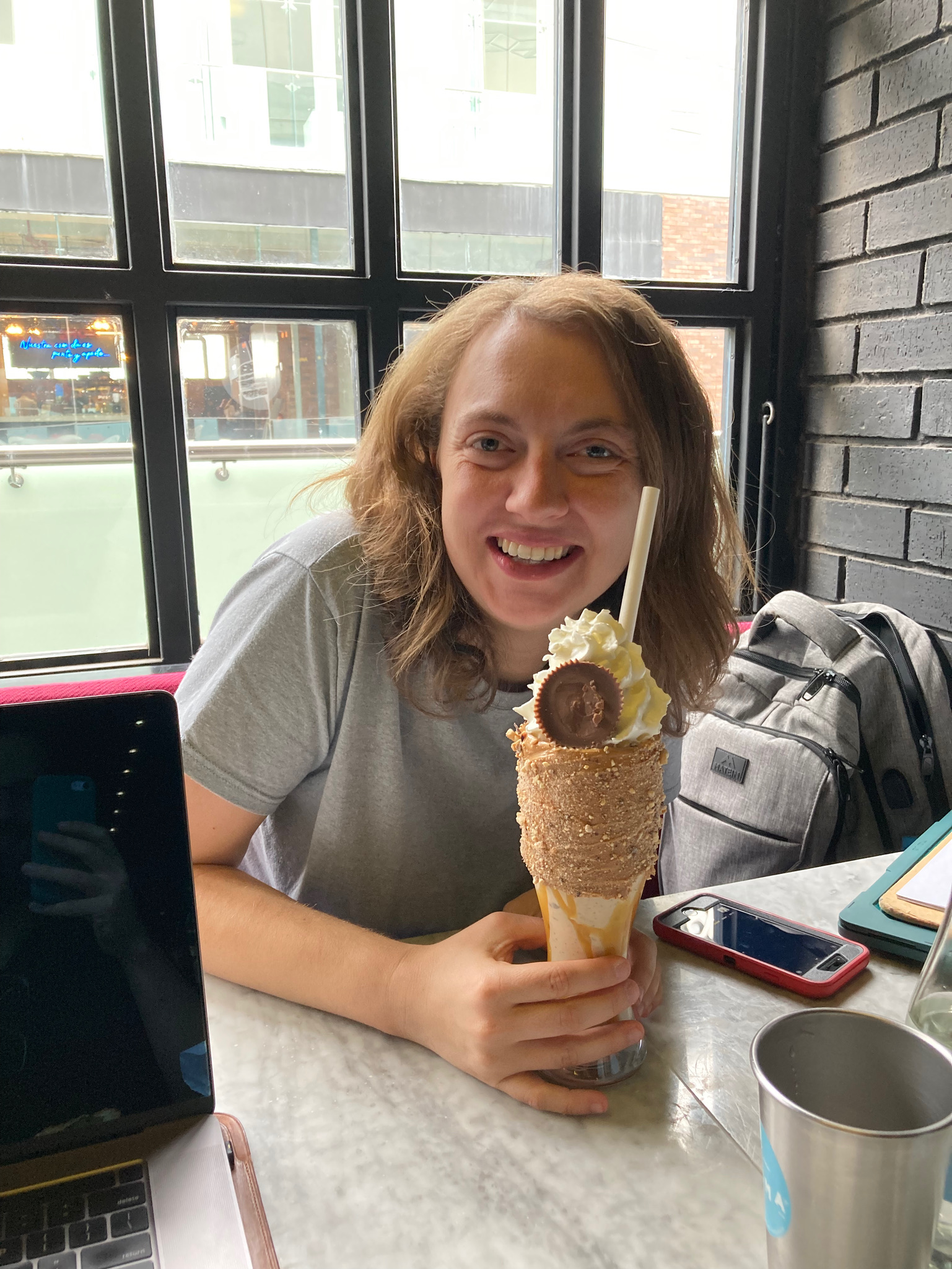
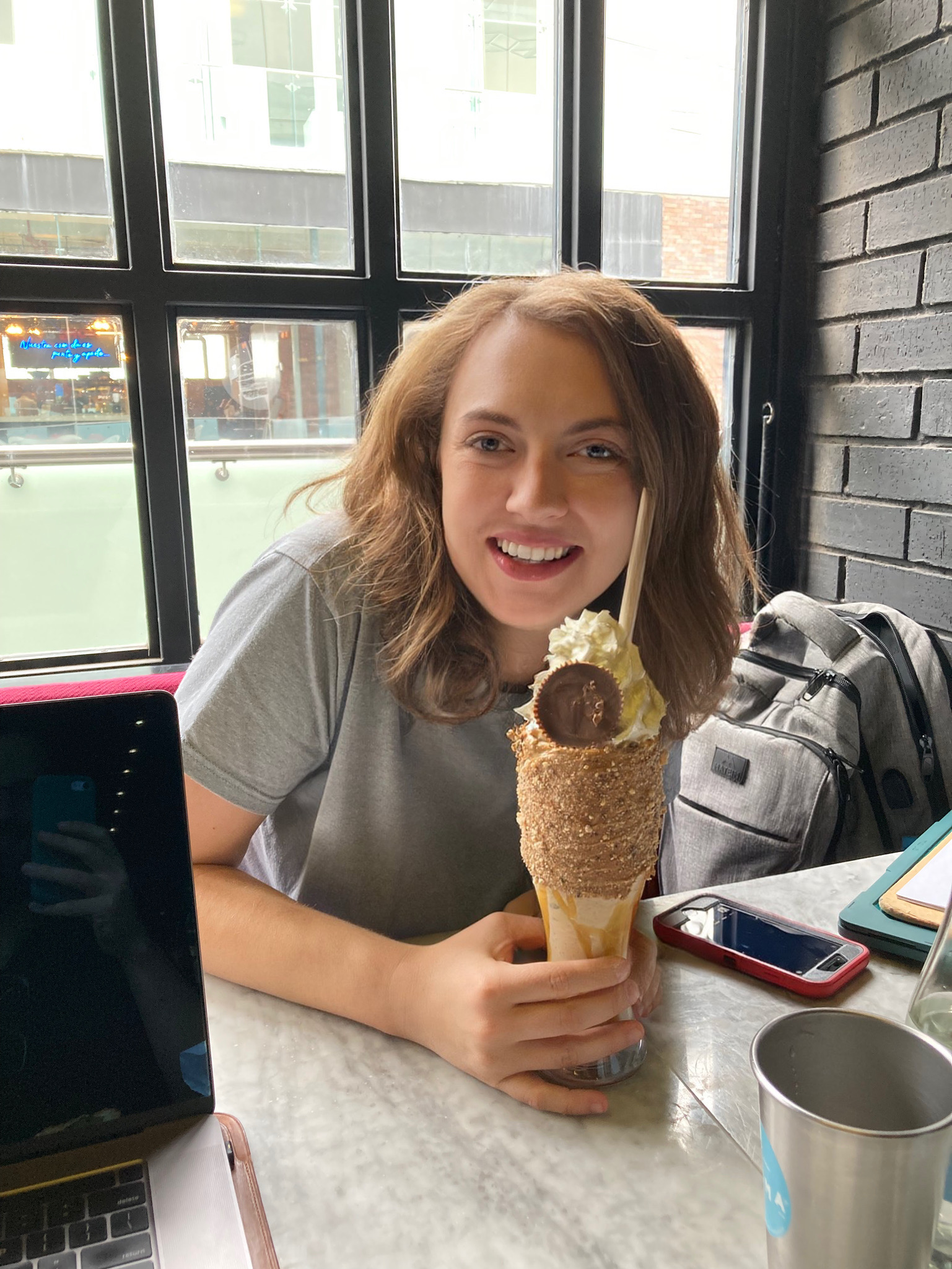
changed some pictures on slider and info section

diff --git a/src/components/SliderData.jsx b/src/components/SliderData.jsx
@@ -1,6 +1,7 @@
 /** @format */
 
 import ImageOne from './images/us-1.jpeg';
+// import ImageOne from "https://i.ibb.co/MPJ9zdD/us-1.jpg";
 import ImageTwo from './images/us-2.JPG';
 import ImageThree from './images/us-3.jpeg';
 import ImageFour from './images/us-4.jpeg';
@@ -17,6 +18,7 @@ import ImageThirteen from './images/us-13.JPG';
 // import ImageFifteen from './images/us-15.jpeg';
 import ImageSixteen from './images/us-16.jpeg';
 import ImageSeventeen from './images/us-17.jpeg';
+
 
 export const SliderData = [
   {

diff --git a/src/components/pages/Location.jsx b/src/components/pages/Location.jsx
@@ -1,6 +1,12 @@
 import React from "react";
 import '../../App.css';
+import { Button } from "../Button";
 
 export default function Location() {
-    return <h1 className='location'>The Ceremony</h1>;
+    return (
+        <>
+            <h1 className='location'>The Ceremony</h1>;
+        </>
+
+    )
 }

diff --git a/src/components/pages/Home.jsx b/src/components/pages/Home.jsx
@@ -10,6 +10,7 @@ function Home() {
             <MainSection />
             <Cards />
             <Footer />
+            <img src="https://i.ibb.co/MPJ9zdD/us-1.jpg" alt="us-1" border="0"></img>
         </>
     );
 }
